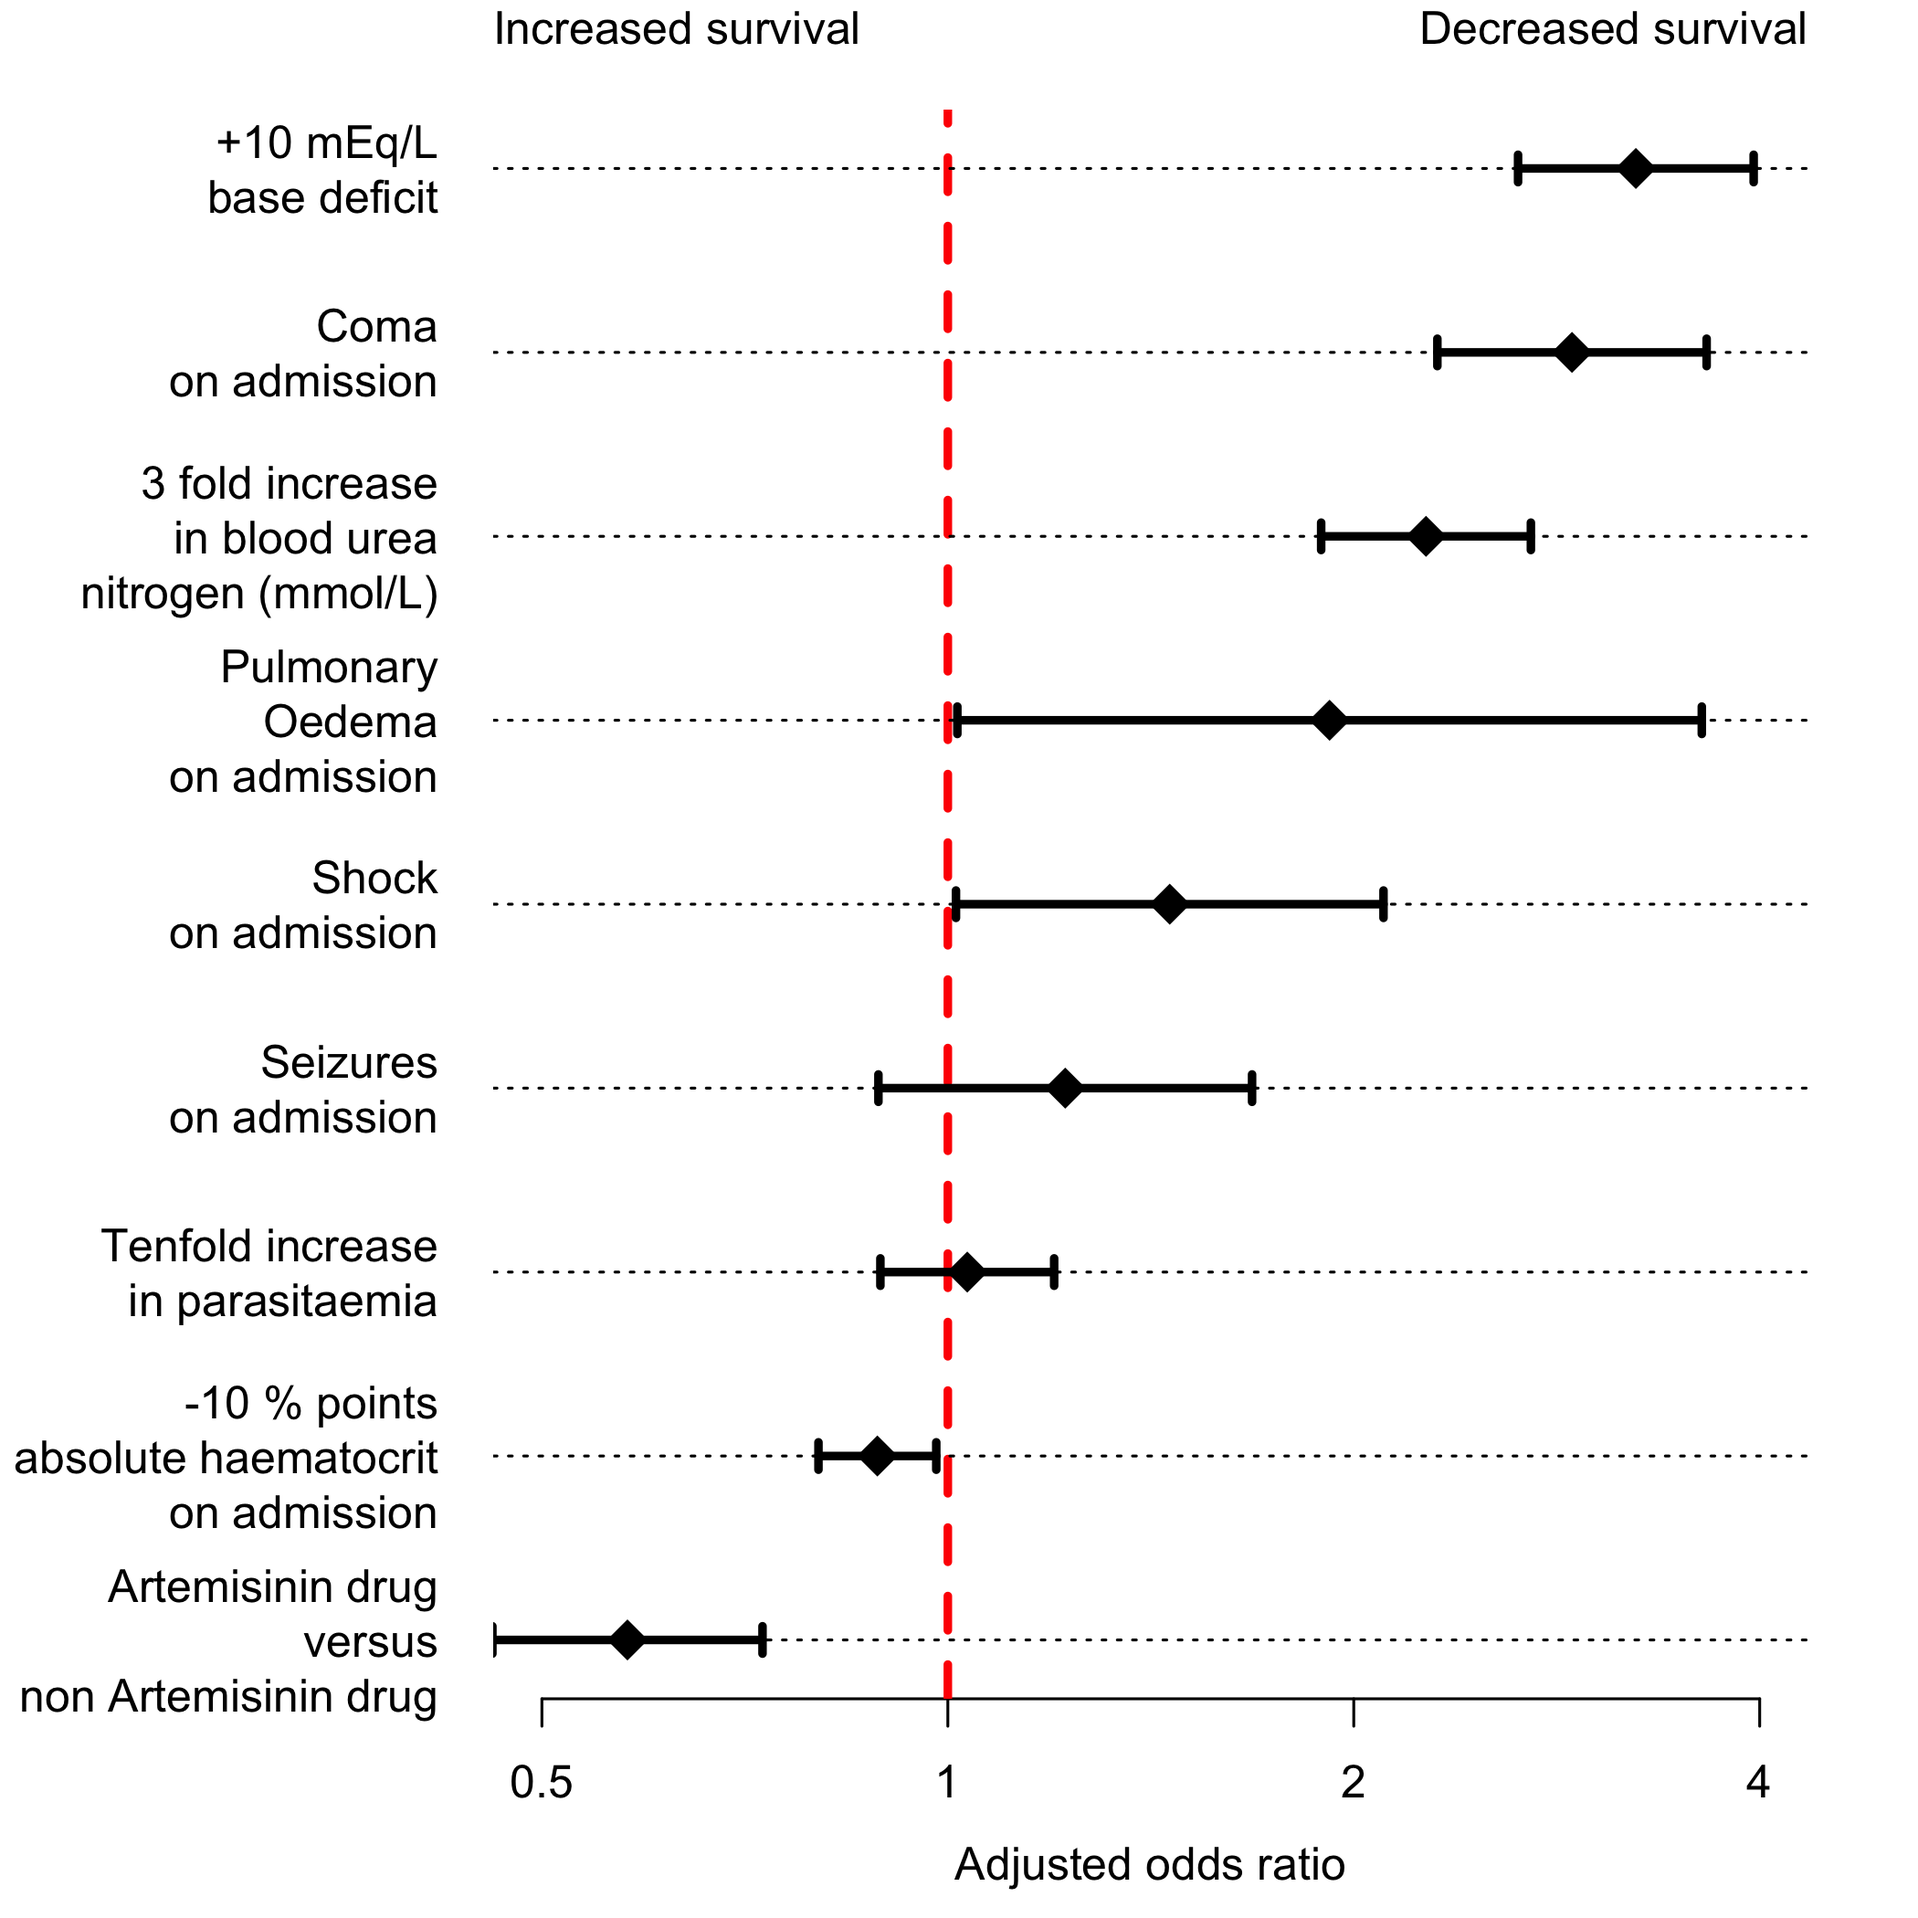
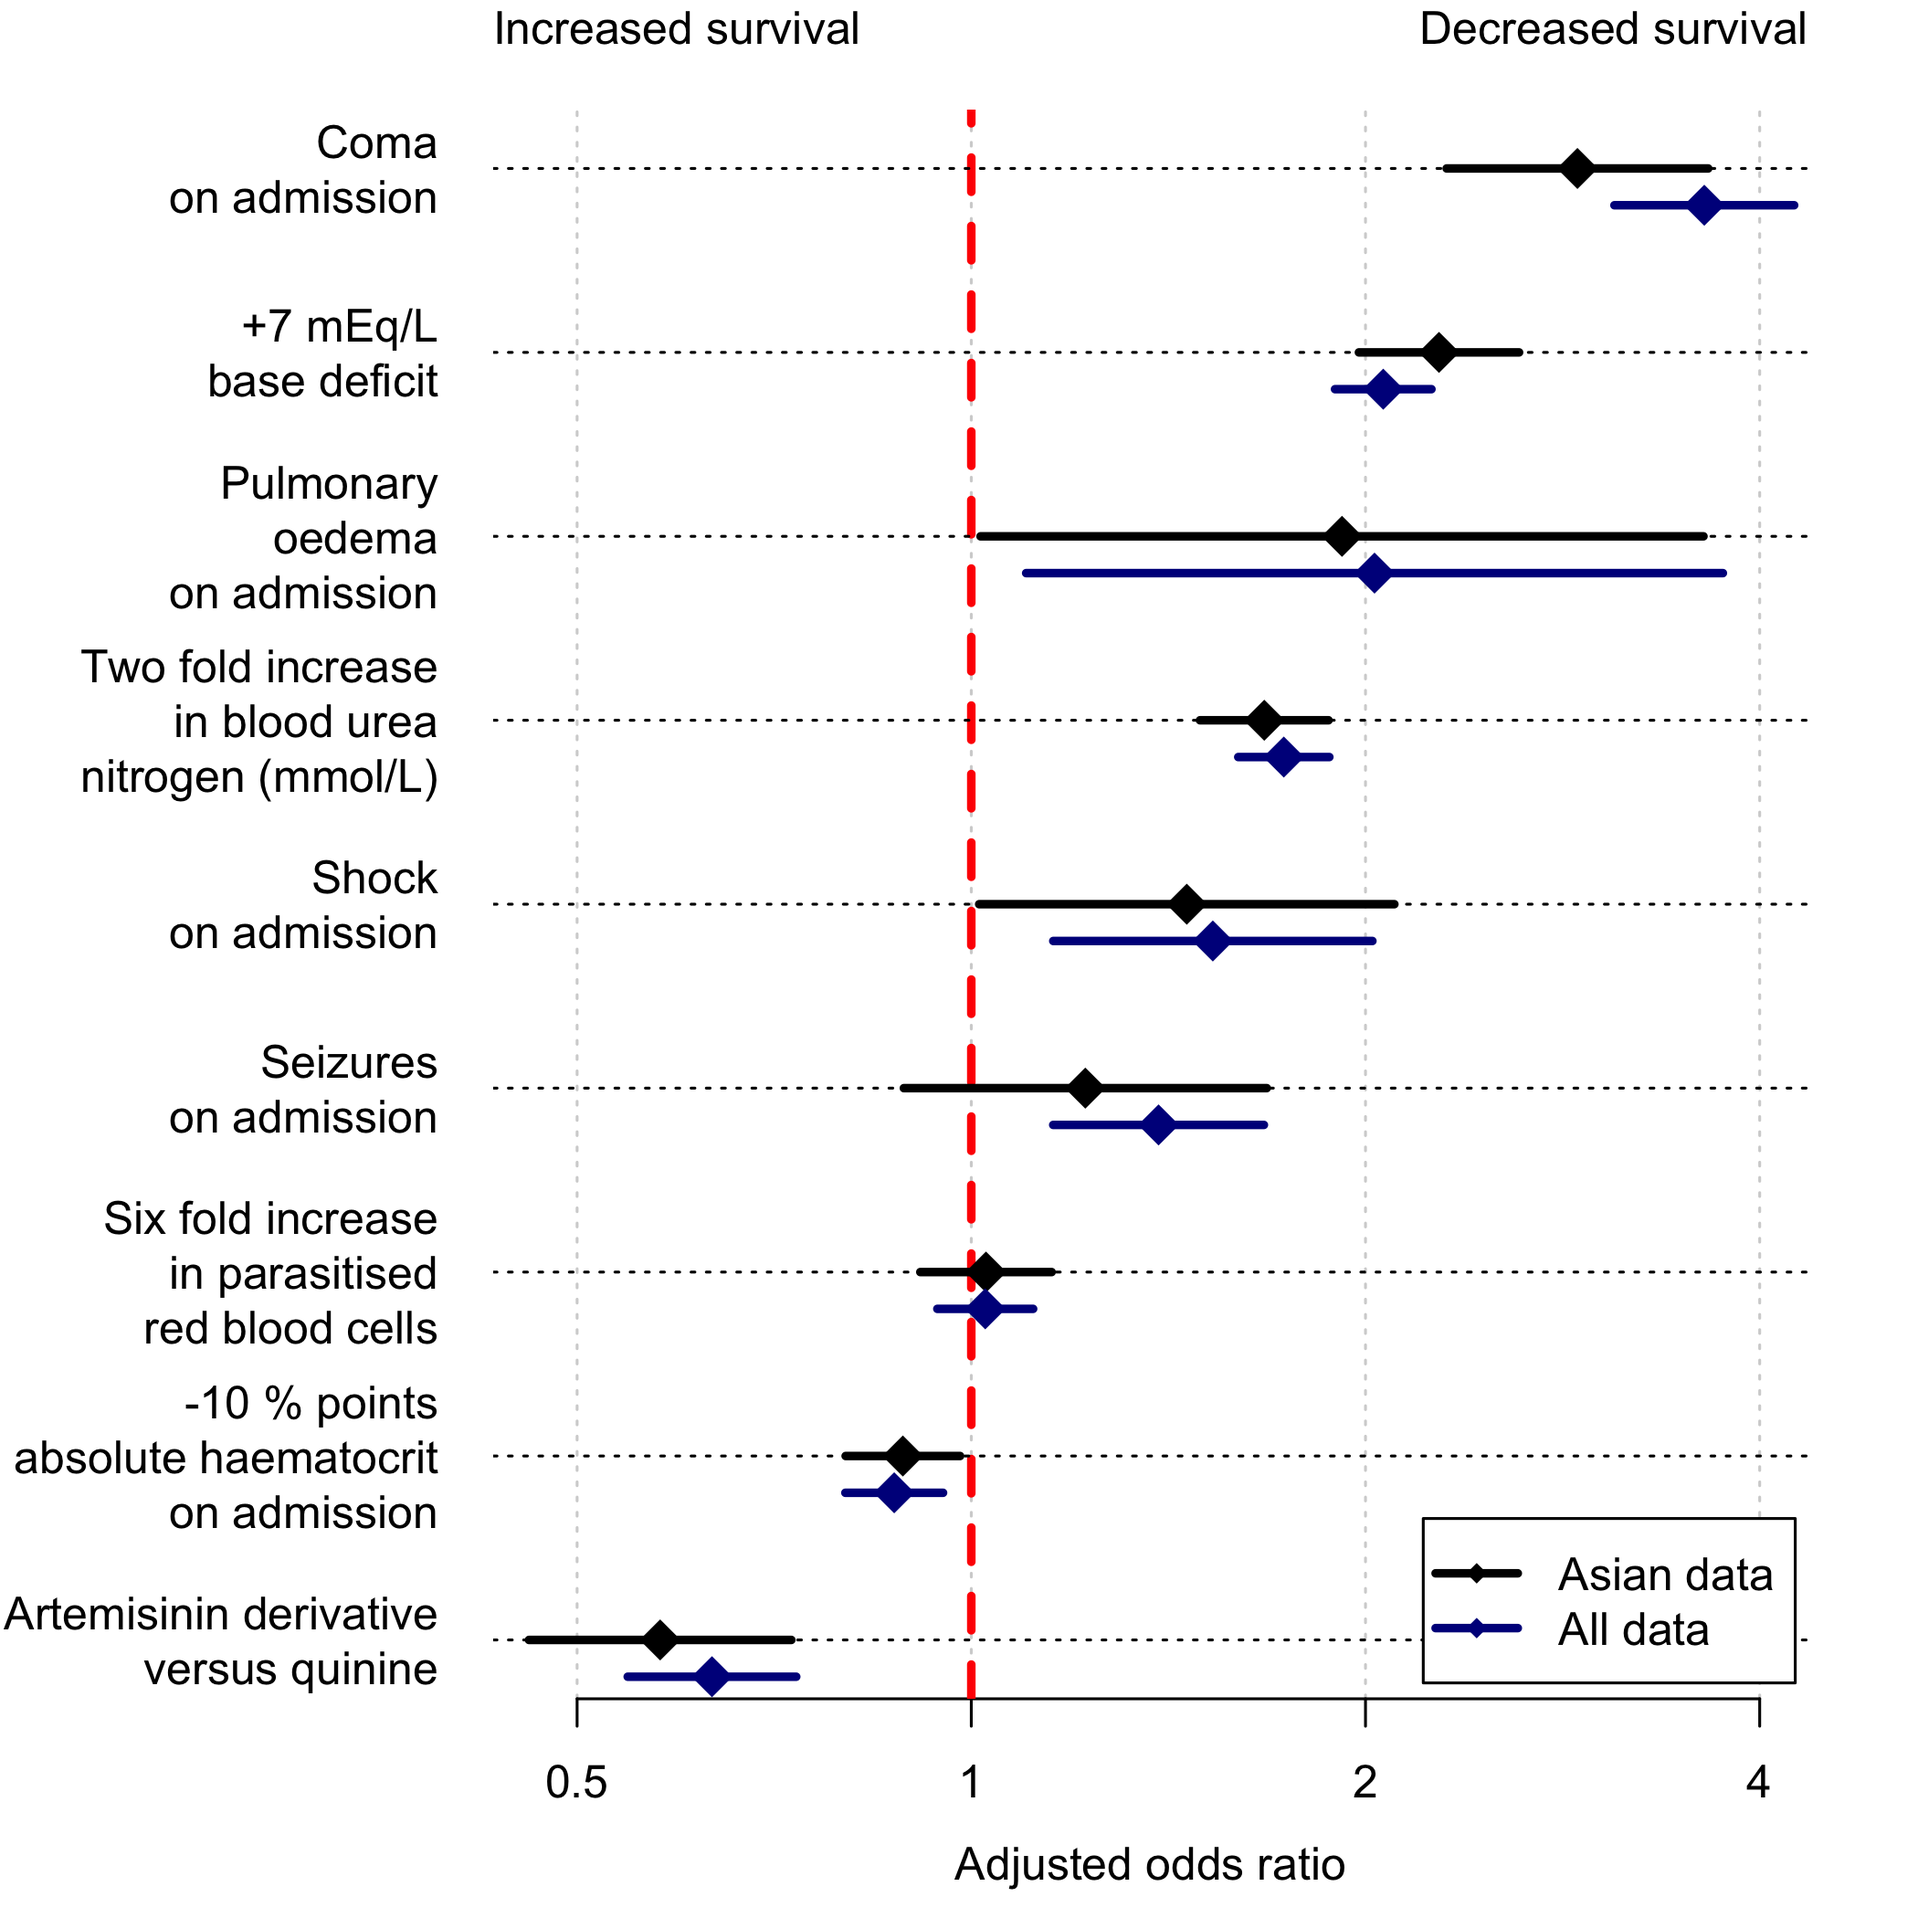
update forest plots with correct y-labels

diff --git a/Exploratory_Analysis_and__Sensitivity.md b/Exploratory_Analysis_and__Sensitivity.md
@@ -169,6 +169,173 @@ modLPAR_pct=gam(outcome ~ s(LPAR_pct) + s(studyID, bs='re') + s(country, bs='re'
 
 ![](Exploratory_Analysis_and__Sensitivity_files/figure-html/UnadjustedPlots-1.png)<!-- -->
 
+Compute risk ratios with confidence intervals for the binary predictors:
+
+```r
+writeLines('\nComa risk ratio calculations:\n')
+```
+
+```
+## 
+## Coma risk ratio calculations:
+```
+
+```r
+riskratio(x = table(Leg_data_complete$coma,Leg_data_complete$outcome),method = 'wald')
+```
+
+```
+## $data
+##        
+##            0   1 Total
+##   0     3190 197  3387
+##   1     1417 484  1901
+##   Total 4607 681  5288
+## 
+## $measure
+##    risk ratio with 95% C.I.
+##     estimate    lower    upper
+##   0 1.000000       NA       NA
+##   1 4.377359 3.745742 5.115483
+## 
+## $p.value
+##    two-sided
+##     midp.exact fisher.exact   chi.square
+##   0         NA           NA           NA
+##   1          0 2.873847e-89 4.510489e-93
+## 
+## $correction
+## [1] FALSE
+## 
+## attr(,"method")
+## [1] "Unconditional MLE & normal approximation (Wald) CI"
+```
+
+```r
+writeLines('\nShock risk ratio calculations:\n')
+```
+
+```
+## 
+## Shock risk ratio calculations:
+```
+
+```r
+riskratio(x = table(Leg_data_complete$shock,Leg_data_complete$outcome),method = 'wald')
+```
+
+```
+## $data
+##        
+##            0   1 Total
+##   0     4387 629  5016
+##   1      227  55   282
+##   Total 4614 684  5298
+## 
+## $measure
+##    risk ratio with 95% C.I.
+##     estimate    lower    upper
+##   0 1.000000       NA       NA
+##   1 1.555323 1.213565 1.993324
+## 
+## $p.value
+##    two-sided
+##      midp.exact fisher.exact   chi.square
+##   0          NA           NA           NA
+##   1 0.001326233  0.001315026 0.0006903902
+## 
+## $correction
+## [1] FALSE
+## 
+## attr(,"method")
+## [1] "Unconditional MLE & normal approximation (Wald) CI"
+```
+
+```r
+writeLines('\nConvulsions risk ratio calculations:\n')
+```
+
+```
+## 
+## Convulsions risk ratio calculations:
+```
+
+```r
+riskratio(x = table(Leg_data_complete$convulsions,Leg_data_complete$outcome),method = 'wald')
+```
+
+```
+## $data
+##        
+##            0   1 Total
+##   0     3706 488  4194
+##   1      908 196  1104
+##   Total 4614 684  5298
+## 
+## $measure
+##    risk ratio with 95% C.I.
+##     estimate    lower    upper
+##   0 1.000000       NA       NA
+##   1 1.525793 1.310761 1.776101
+## 
+## $p.value
+##    two-sided
+##       midp.exact fisher.exact   chi.square
+##   0           NA           NA           NA
+##   1 1.822527e-07 1.838727e-07 6.898686e-08
+## 
+## $correction
+## [1] FALSE
+## 
+## attr(,"method")
+## [1] "Unconditional MLE & normal approximation (Wald) CI"
+```
+
+```r
+writeLines('\nPulmonary oedema risk ratio calculations:\n')
+```
+
+```
+## 
+## Pulmonary oedema risk ratio calculations:
+```
+
+```r
+riskratio(x = table(Leg_data_complete$poedema,Leg_data_complete$outcome),method = 'wald')
+```
+
+```
+## Warning in chisq.test(xx, correct = correction): Chi-squared approximation
+## may be incorrect
+```
+
+```
+## $data
+##        
+##            0   1 Total
+##   0     4606 673  5279
+##   1        8  11    19
+##   Total 4614 684  5298
+## 
+## $measure
+##    risk ratio with 95% C.I.
+##     estimate    lower   upper
+##   0 1.000000       NA      NA
+##   1 4.541253 3.074995 6.70667
+## 
+## $p.value
+##    two-sided
+##       midp.exact fisher.exact   chi.square
+##   0           NA           NA           NA
+##   1 4.764254e-06 4.349083e-06 4.679905e-09
+## 
+## $correction
+## [1] FALSE
+## 
+## attr(,"method")
+## [1] "Unconditional MLE & normal approximation (Wald) CI"
+```
+
 # Sensitivity Analysis
 
 ## Only using complete records
@@ -341,10 +508,6 @@ m$Outcome4hours[!is.na(m$Timetodeathhrs) & m$Timetodeathhrs < 4] = 1
 
 # We only look at individuals who survive past 4 hours
 m = filter(m, Outcome4hours==0)
-```
-
-```
-## Warning: package 'bindrcpp' was built under R version 3.4.4
 ```
 
 
@@ -565,14 +728,14 @@ print(RandEffs)
 ```
 ##                    lowerCI         mean     upperCI
 ## (Intercept)   0.0001163752 0.0006479256 0.003607363
-## BD            2.2218571479 2.5550951120 2.938312680
+## BD            1.7486435612 1.9283459489 2.126515764
 ## coma          2.8804457926 3.4677645599 4.174836782
 ## convulsions1  1.1999302616 1.4703658351 1.801751117
 ## drug_AS       0.5836440055 0.6900175088 0.815778382
 ## HCT           0.9798943042 0.8768621019 0.784663348
 ## hypoglycaemia 1.3641014986 1.7637387224 2.280456611
-## log2(BUN)     2.1179640649 2.4574205846 2.851283471
-## LPAR_pct      0.8897867936 1.0061825876 1.137804480
+## log2(BUN)     1.6055792023 1.7634580363 1.936861315
+## LPAR_pct      0.9131388131 1.0048076972 1.105679108
 ## poedema1      1.6209267562 3.7520057685 8.684875633
 ## shock1        0.9127565863 1.2642697203 1.751154634
 ## transfusion   0.7866423938 0.9938283311 1.255582917
@@ -802,14 +965,14 @@ print(RandEffs)
 ```
 ##                  lowerCI        mean     upperCI
 ## (Intercept)   0.00158783 0.003460346 0.007541103
-## BD            2.64770644 3.237663789 3.959074403
+## BD            1.97701008 2.275947415 2.620086108
 ## coma          2.30689640 2.903172562 3.653571498
 ## convulsions1  0.88821421 1.221985881 1.681181718
 ## drug_AS       0.45945348 0.578628844 0.728716520
 ## HCT           1.01995988 1.127876476 1.247211163
 ## hypoglycaemia 0.88686068 1.572399880 2.787857719
-## log2(BUN)     1.89171334 2.262643728 2.706306780
-## LPAR_pct      0.89120606 1.033741277 1.199072894
+## log2(BUN)     1.49512073 1.673932327 1.874129213
+## LPAR_pct      0.91427200 1.026158874 1.151738252
 ## poedema1      1.01640042 1.919108022 3.623547900
 ## shock1        1.01399639 1.460690791 2.104166844
 ```

diff --git a/FactorsCausingDeath.md b/FactorsCausingDeath.md
@@ -319,19 +319,22 @@ print(round(Results,2))
 ```r
 par(bty='n', las=1, mar = c(4,9,2,2))
 
-Y_Labels = c('Artemisinin drug\nversus\nnon artemisinin drug',
+Y_Labels = c('Artemisinin derivative\nversus quinine',
              '-10 % points\nabsolute haematocrit\non admission',
              'Six fold increase\n in parasitised\nred blood cells',
              'Seizures\non admission',
-             'Shock \non admission',
-             'Pulmonary\noedema\non admission',
+             'Shock\non admission',
              'Two fold increase\nin blood urea\nnitrogen (mmol/L)',
+             'Pulmonary\noedema\non admission',
              '+7 mEq/L\nbase deficit',
              'Coma\non admission')
-
+Results_FM = Results
+rownames(Results_FM) = Y_Labels
+save(Results_FM, file = 'Results_fullmodel.RData')
 xlims = c(0.5, 4.5)
 plot(NA,NA, xlim= log2(xlims), ylim = c(0,1),xaxt='n',
      xlab='', ylab='', yaxt='n')
+abline(v= seq(-1,3,by=1),col = "lightgray", lty = "dotted",lwd = par("lwd"))
 axis(1, at = log2(c(0.5,1, 2,4)), labels = c(0.5,1, 2,4))
 abline(v=0, lty=2, lwd=3, col='red')
 yindex =1
@@ -341,7 +344,7 @@ ypos = seq(0,1,length.out = sum(plotting_ind))
 for(i in 1:nrow(Results)){
   arrows(log2(Results[i,'lowerCI']),ypos[yindex],
          log2(Results[i,'upperCI']),ypos[yindex],
-         length=0.05, angle=90, code=3, 
+         length=0.0, angle=90, code=3, 
          col = 'black',lwd=3)
   points(log2(Results[i,'mean']),ypos[yindex],pch=18,cex=2)
   yindex=yindex+1
